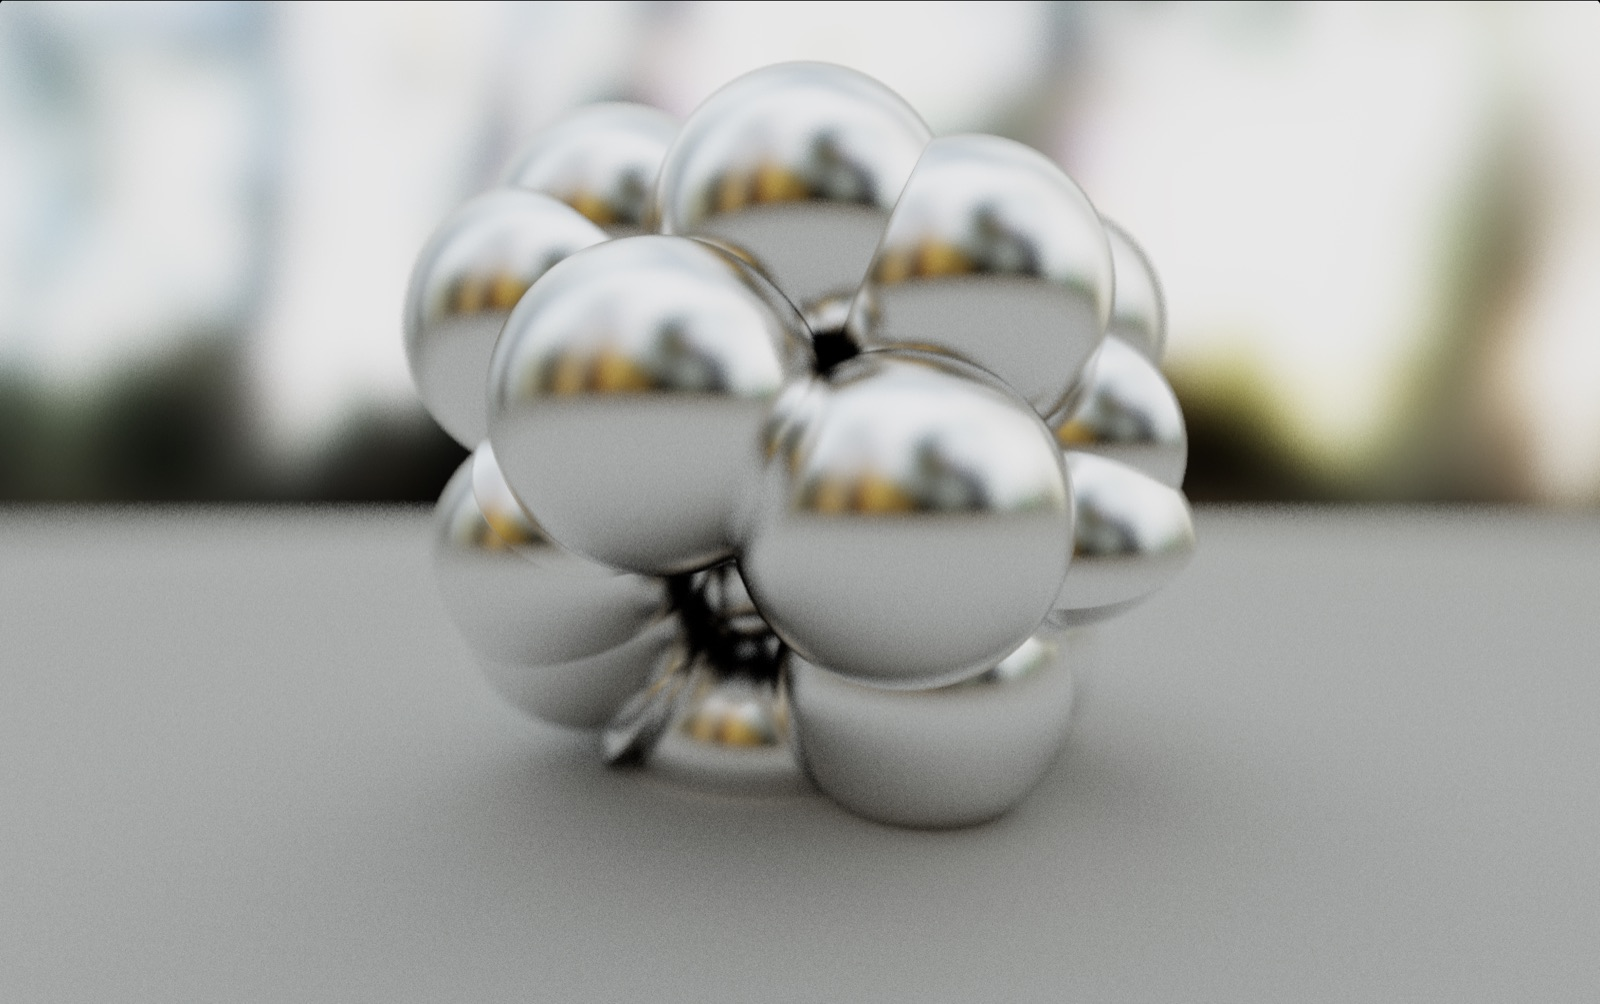
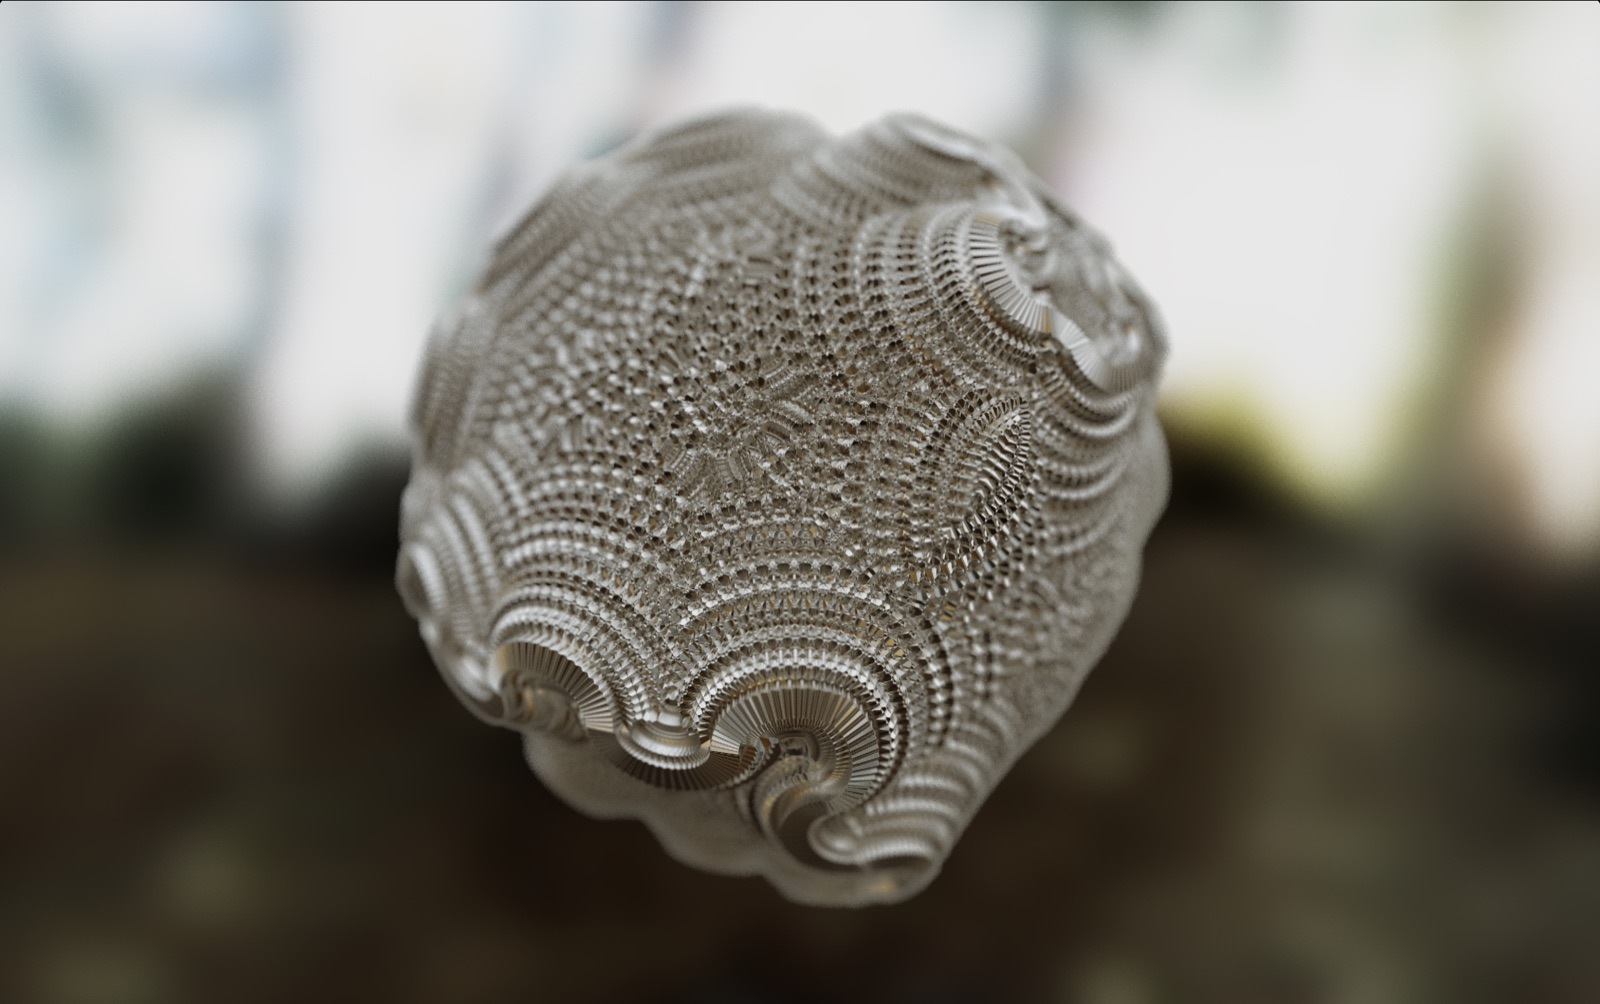
Swap hero render and clean up code excerpts
Replace the hero image with a more detailed fractal render, and strip
comments and the ellipsis placeholder from the code blocks.

diff --git a/_posts/2026-06-18-GLSL Path Tracing.md b/_posts/2026-06-18-GLSL Path Tracing.md
@@ -107,7 +107,6 @@ bool RayMarch(vec3 ro, vec3 rd, out vec3 hitPos, out HitInfo hit)
             break;
         }
 
-        // Folded/fractal SDFs are often not perfectly conservative.
         t += max(hit.dist * 0.8, SURF_EPS);
     }
 
@@ -116,7 +115,7 @@ bool RayMarch(vec3 ro, vec3 rd, out vec3 hitPos, out HitInfo hit)
 }
 ```
 
-주석에 적혀 있듯, 공간을 접어 만든 distance field는 실제 거리를 약간 과대평가하는 경우가 있어 그대로 점프하면 표면을 뚫고 지나갈 수 있다. 그래서 거리의 80%(`hit.dist * 0.8`)만큼만 조심스럽게 전진한다.
+공간을 접어 만든 distance field는 실제 거리를 약간 과대평가하는 경우가 있어 그대로 점프하면 표면을 뚫고 지나갈 수 있다. 그래서 거리의 80%(`hit.dist * 0.8`)만큼만 조심스럽게 전진한다.
 
 ## thin lens camera ##
 
@@ -180,7 +179,6 @@ for (int bounce = 0; bounce < MAX_BOUNCES; bounce++)
     radiance += throughput * mat.emission;
 
     ro = hitPos + n * SURF_EPS * 4.0;
-    ...
 ```
 
 `radiance`는 지금까지 모은 빛, `throughput`은 앞서 설명한 보정항의 누적 곱이다. 광선이 아무것도 맞히지 못하고 장면을 빠져나가면 environment map(HDRI)을 샘플링해 그 빛을 `throughput`만큼 실어 더하고 끝낸다. 결국 이 path tracer에서 빛은 전적으로 환경에서 들어온다.
@@ -329,7 +327,6 @@ if (iFrame == 0)
 }
 else
 {
-    //col = mix(previous, radiance, 1.0 / float(iFrame + 1));
     col = mix(previous, radiance, 0.05);
 }
 ```